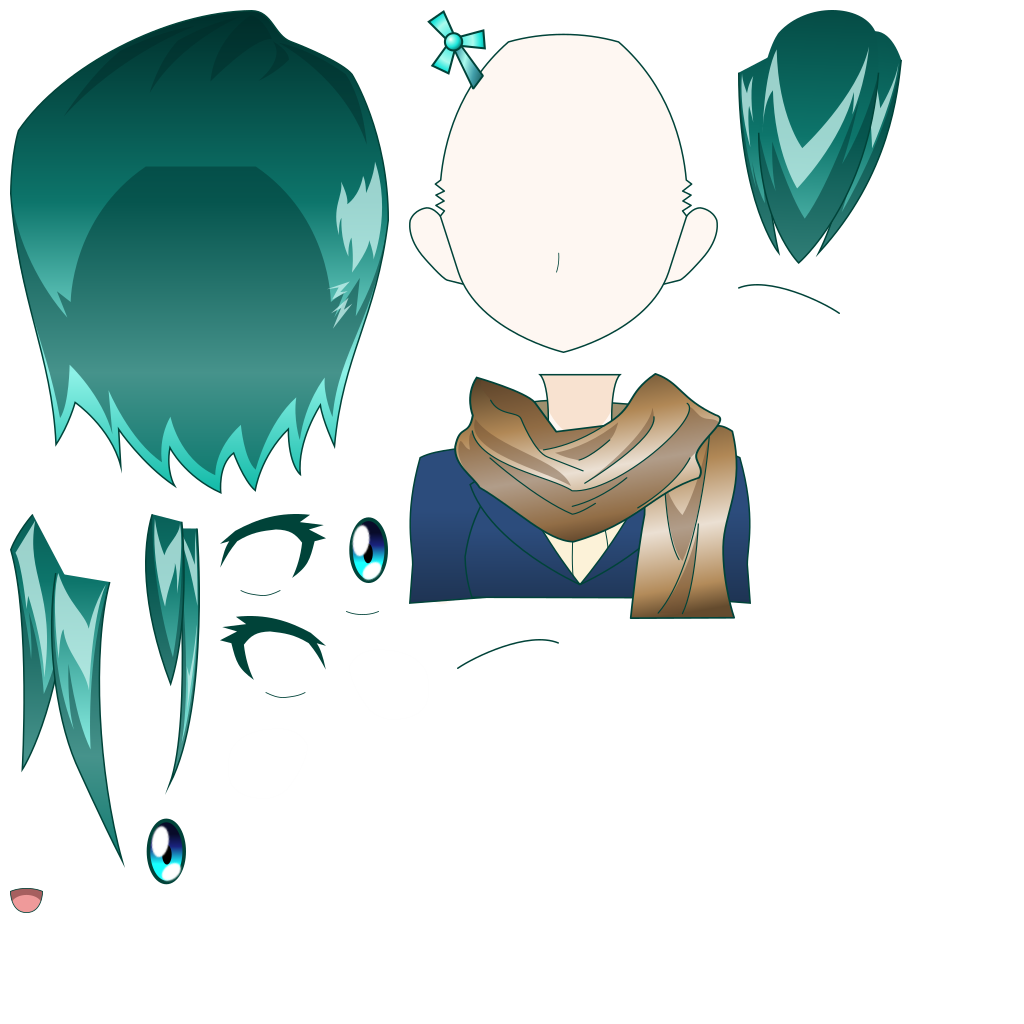
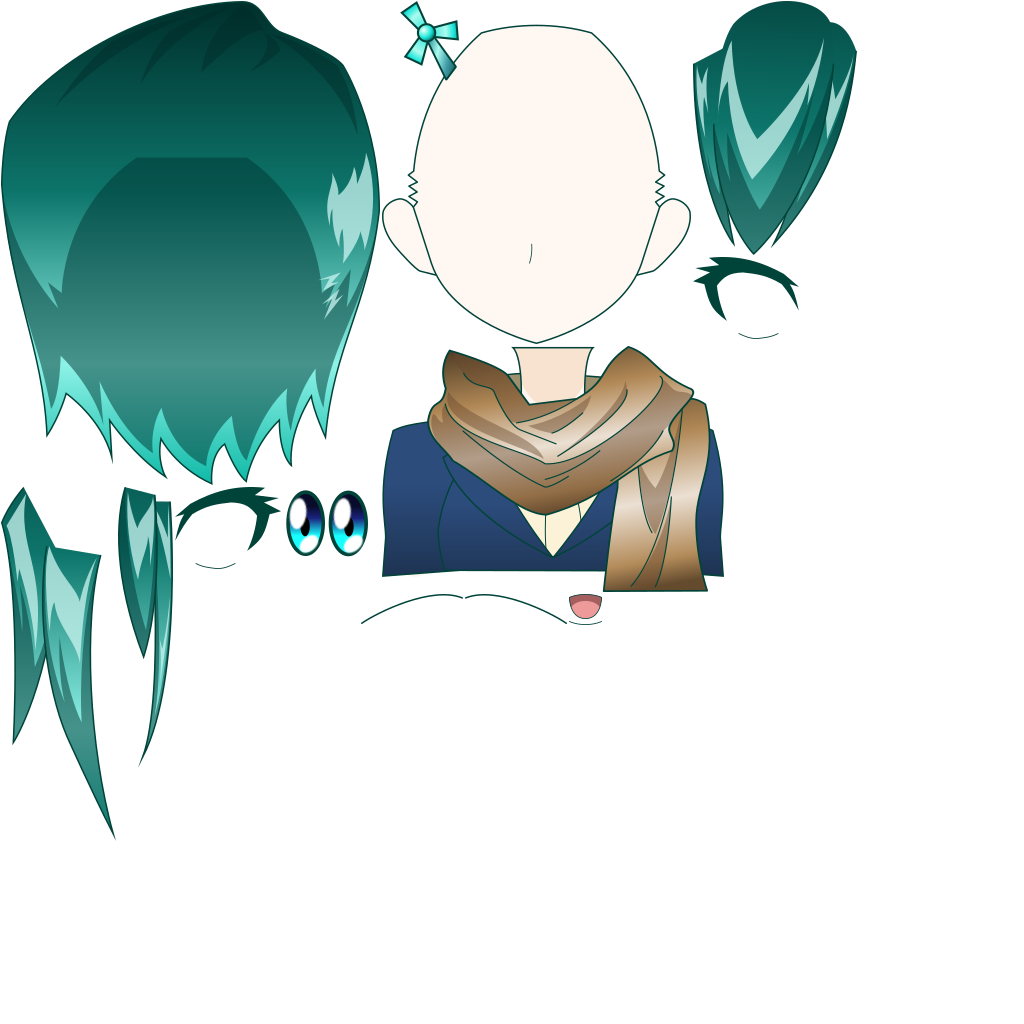
口の動きを滑らかにした。

diff --git a/js/main.js b/js/main.js
@@ -1,17 +1,16 @@
 const video = document.getElementById("video");
-const canvas = document.getElementById("canvas");
+// const canvas = document.getElementById("canvas");
 let app;
 let fooko = null;
 
 $(async function() {
   app = new PIXI.Application({
     view: document.getElementById("fooko"),
-    width: 1000,
-    height: 1000,
+    width: 680,
+    height: 680,
     transparent: true,
   });
 
-  app.stop();
   app.loader.add('fooko', 'resource/fooko.json')
   .load(onAssetsLoaded);
 
@@ -35,126 +34,135 @@ $(async function() {
 });
 
 const onPlay = () => {
-  const message = document.getElementById('message')
-  const inputSize = 512; // 認識対象のサイズ
-  const scoreThreshold = 0.3; // 数値が高いほど精度が高くなる（〜0.9）
-  // (2)オプション設定
+  const inputSize = 160; // 認識対象のサイズ
+  const scoreThreshold = 0.2; // 数値が高いほど精度が高くなる（〜0.9）
   const options = new faceapi.TinyFaceDetectorOptions({
     inputSize,
     scoreThreshold
   })
-  const detectInterval = setInterval(async () => {
-    // (3)顔認識処理
+
+  setInterval(async () => {
     const result = await faceapi.detectSingleFace(
       video,
       options
     )
-    .withFaceLandmarks()
+    .withFaceLandmarks();
 
     if (result) {
-      const resizedDetections = faceapi.resizeResults(result, {
-        width: 400,
-        height: 400
-      });
+      const mouthPos = result.landmarks.getMouth();
+      const nosePos = result.landmarks.getNose()
+      const outlinePos = result.landmarks.getJawOutline()
 
-      const mouthPos = resizedDetections.landmarks.getMouth();
-      const outlinePos = resizedDetections.landmarks.getJawOutline()
-      // console.log(outlinePos);
-
-      canvas.getContext('2d').clearRect(0, 0, canvas.width, canvas.height);
-      faceapi.draw.drawDetections(canvas, resizedDetections);
-      faceapi.draw.drawFaceLandmarks(canvas, resizedDetections);
+      // canvas.getContext('2d').clearRect(0, 0, canvas.width, canvas.height);
+      // faceapi.draw.drawDetections(canvas, resizedDetections);
+      // faceapi.draw.drawFaceLandmarks(canvas, resizedDetections);
       // drawDot(canvas, mouthPos[12]);
       // drawDot(canvas, mouthPos[16]);
       // drawDot(canvas, mouthPos[14]);
       // drawDot(canvas, mouthPos[18]);
       // drawDot(canvas, outlinePos[0]);
       // drawDot(canvas, outlinePos[8]);
-      // drawDot(canvas, outlinePos[16]);
+      // drawDot(canvas, getVecCenter(nosePos[0], getVecCenter(outlinePos[0], outlinePos[16])));
+      // drawDot(canvas, outlinePos[8]);
 
       const mouthHLength = getVecLength(mouthPos[12], mouthPos[16]);
       const mouthVLength = getVecLength(mouthPos[14], mouthPos[18]);
       const faceHLength = getVecLength(outlinePos[0], outlinePos[16]);
+      const faceVLength = getVecLength(outlinePos[0], getVecCenter(nosePos[0], getVecCenter(outlinePos[0], outlinePos[16])));
+      const noseFaceLength = getVecLength(nosePos[0], getVecCenter(outlinePos[0], outlinePos[16]));
 
-      let mouthVecRate = ((mouthHLength / mouthVLength) - 0.5) ** 1.5;
+      const mouthVRate = (mouthVLength / faceVLength) * 100;
+      let mouthHRate = (mouthHLength / faceHLength) * 100;
 
-      if(mouthVecRate > 2) {
-        mouthVecRate = 2;
-      }
-      if(mouthVecRate < 0.5) {
-        mouthVecRate = 0.5;
-      }
+      const mouthVVal = getRateVal(mouthVRate, 2, 16) + getRateVal(mouthVRate, 16, 22) * 0.9 - getRateVal(mouthHRate, 26, 32) * 0.3;
+      const mouthHVal = 0.5 + getRateVal(mouthHRate, 26, 29) * 0.6 + getRateVal(mouthHRate, 29, 35) * 1.0 + getRateVal(mouthVRate, 14, 22) * 0.2;
+
+      // console.log("V: " + mouthVRate);
+      // console.log("H: " + mouthHRate);
+      // console.log("N: " + Math.abs(nosePos[0].x - getVecCenter(outlinePos[0], outlinePos[16]).x));
+      // console.log("");
 
       if(fooko) {
         const mouthBone = fooko.skeleton.findBone("mouth");
-        let scaleY = ((120/32) * (mouthHLength / faceHLength))**2.5;
-        if(scaleY > 2) {
-          scaleY = 2;
-        }
-        histData.addHist("mouthScaleY", scaleY, 5);
-        mouthBone.scaleY = histData.getHistAve("mouthScaleY");
-        if(mouthVLength < 3) {
+        let scaleX = mouthHVal;
+
+        histData.addHist("mouthScaleX", scaleX, 8);
+        mouthBone.scaleY = histData.getHistAve("mouthScaleX");
+
+        let scaleY = mouthVVal;
+        histData.addHist("mouthscaleY", scaleY, 8);
+        scaleY = histData.getHistAve("mouthscaleY");
+
+        if(scaleY < 0.1) {
           fooko.skeleton.setAttachment("mouth", "mouth-close");
-          mouthBone.scaleX = 1;
+          scaleY = 1;
         } else {
           fooko.skeleton.setAttachment("mouth", "mouth-open");
-          let scaleX = (mouthVLength-3) / 11;
-          if(scaleX > 2) {
-            scaleX = 2;
-          }
-          histData.addHist("mouthscaleX", scaleX, 5);
-          mouthBone.scaleX = histData.getHistAve("mouthscaleX");
         }
+        mouthBone.scaleX = scaleY;
 
         const faceRot = getVecRot(outlinePos[0], outlinePos[16]);
         const faceBone = fooko.skeleton.findBone("face");
-        let deg = getDeg(faceRot);
-        if(deg > 20) { deg = 20; }
-        if(deg < -20) { deg = -20; }
+        let faceDeg = getDeg(faceRot);
+        if(faceDeg > 15) { faceDeg = 15; }
+        if(faceDeg < -15) { faceDeg = -15; }
 
-        histData.addHist("faceDeg", deg, 15);
+        histData.addHist("faceDeg", faceDeg, 15);
         faceBone.rotation = histData.getHistAve("faceDeg");
+
+        let bone = fooko.skeleton.findBone("back-hair");
+        let deg = (bone.getWorldRotationX() - 90) * 0.02;
+        deg -= degSpeed * 0.1;
+        degSpeed += deg;
+
+        bone = fooko.skeleton.findBone("back-hair");
+        bone.rotation += degSpeed;
+
+        bone = fooko.skeleton.findBone("right-hair");
+        bone.rotation += degSpeed;
+
+        bone = fooko.skeleton.findBone("left-hair");
+        bone.rotation += degSpeed;
+
+        bone = fooko.skeleton.findBone("center-hair");
+        bone.rotation += degSpeed;
+
+        time += 2;
+
+        const eyeTime = time % 400;
+        const eyeScale = (eyeTime <= 14)? ((eyeTime-7)/7)**2 : 1;
+
+        bone = fooko.skeleton.findBone("left-eye");
+        bone.scaleX = eyeScale;
+        bone = fooko.skeleton.findBone("right-eye");
+        bone.scaleX = eyeScale;
+
       }
 
       // message.textContent = "認識されてます"
     } else {
       // message.textContent = "認識されていません"
     }
-  }, 16);
+  }, 10);
 
-  app.ticker.add(() => {
-    time += 2;
+  renderLoop();
+}
 
-    let deg = Math.cos(getRad(time)) * 0.08;
+const renderLoop = function() {
+  fooko.update();
 
-    let bone;
+  requestAnimationFrame(renderLoop);
+}
 
-    bone = fooko.skeleton.findBone("back-hair");
-    deg += (bone.getWorldRotationX() - 90) * 0.02;
-    deg -= degSpeed * 0.1;
+const getRateVal = function(rate, min, max) {
+  if(rate <= min) {
+    return 0;
+  }
+  if(rate >= max) {
+    return 1;
+  }
 
-    degSpeed += deg;
-    bone.rotation += degSpeed;
-
-    bone = fooko.skeleton.findBone("right-hair");
-    bone.rotation += degSpeed;
-
-    bone = fooko.skeleton.findBone("left-hair");
-    bone.rotation += degSpeed;
-
-    bone = fooko.skeleton.findBone("center-hair");
-    bone.rotation += degSpeed;
-
-    const eyeTime = time % 400;
-    const eyeScale = (eyeTime <= 14)? ((eyeTime-7)/7)**2 : 1;
-
-    bone = fooko.skeleton.findBone("left-eye");
-    bone.scaleX = eyeScale;
-    bone = fooko.skeleton.findBone("right-eye");
-    bone.scaleX = eyeScale;
-
-    fooko.update(0.016666); // HARDCODED FRAMERATE!
-  });
+  return (rate - min) / (max - min);
 }
 
 let degSpeed = 0;
@@ -208,6 +216,14 @@ const getVecLength = function(pos1, pos2) {
   return length;
 }
 
+const getVecCenter = function(pos1, pos2) {
+  const vec = {
+    x: (pos2.x + pos1.x) / 2,
+    y: (pos2.y + pos1.y) / 2,
+  }
+  return vec;
+}
+
 const getVecRot = function(pos1, pos2) {
   const rot = Math.atan2(pos2.y - pos1.y, pos2.x - pos1.x);
   return rot
@@ -215,17 +231,15 @@ const getVecRot = function(pos1, pos2) {
 
 function onAssetsLoaded(loader, res) {
   fooko = new PIXI.spine.Spine(res.fooko.spineData);
-  fooko.autoUpdate = true;
+  fooko.autoUpdate = false;
 
-  const scale = 1.5;
-  fooko.scale.set(scale, scale);
   fooko.position.set(
-    500,
-    1000,
+    340,
+    680,
   );
 
   app.stage.addChild(fooko);
-  app.start();
+  fooko.update(0);
 }
 
 let time = 0;

diff --git a/index.html b/index.html
@@ -11,7 +11,7 @@
   <canvas id="fooko"></canvas>
   <div id="faceapi">
     <video id="video" autoplay onloadedmetadata="onPlay()"></video>
-    <canvas id="canvas" width="400" height="400"></canvas>
+    <!-- <canvas id="canvas" width="400" height="400"></canvas> -->
   </div>
   <p id="message"></p>
 

diff --git a/css/main.css b/css/main.css
@@ -2,9 +2,11 @@ body {
   /* overflow: hidden; */
   margin: 0;
   text-align: center;
+  /* background: #f00; */
 }
 
 #faceapi {
+  display: none;
   display: inline-block;
   position: absolute;
   width: 200px;
